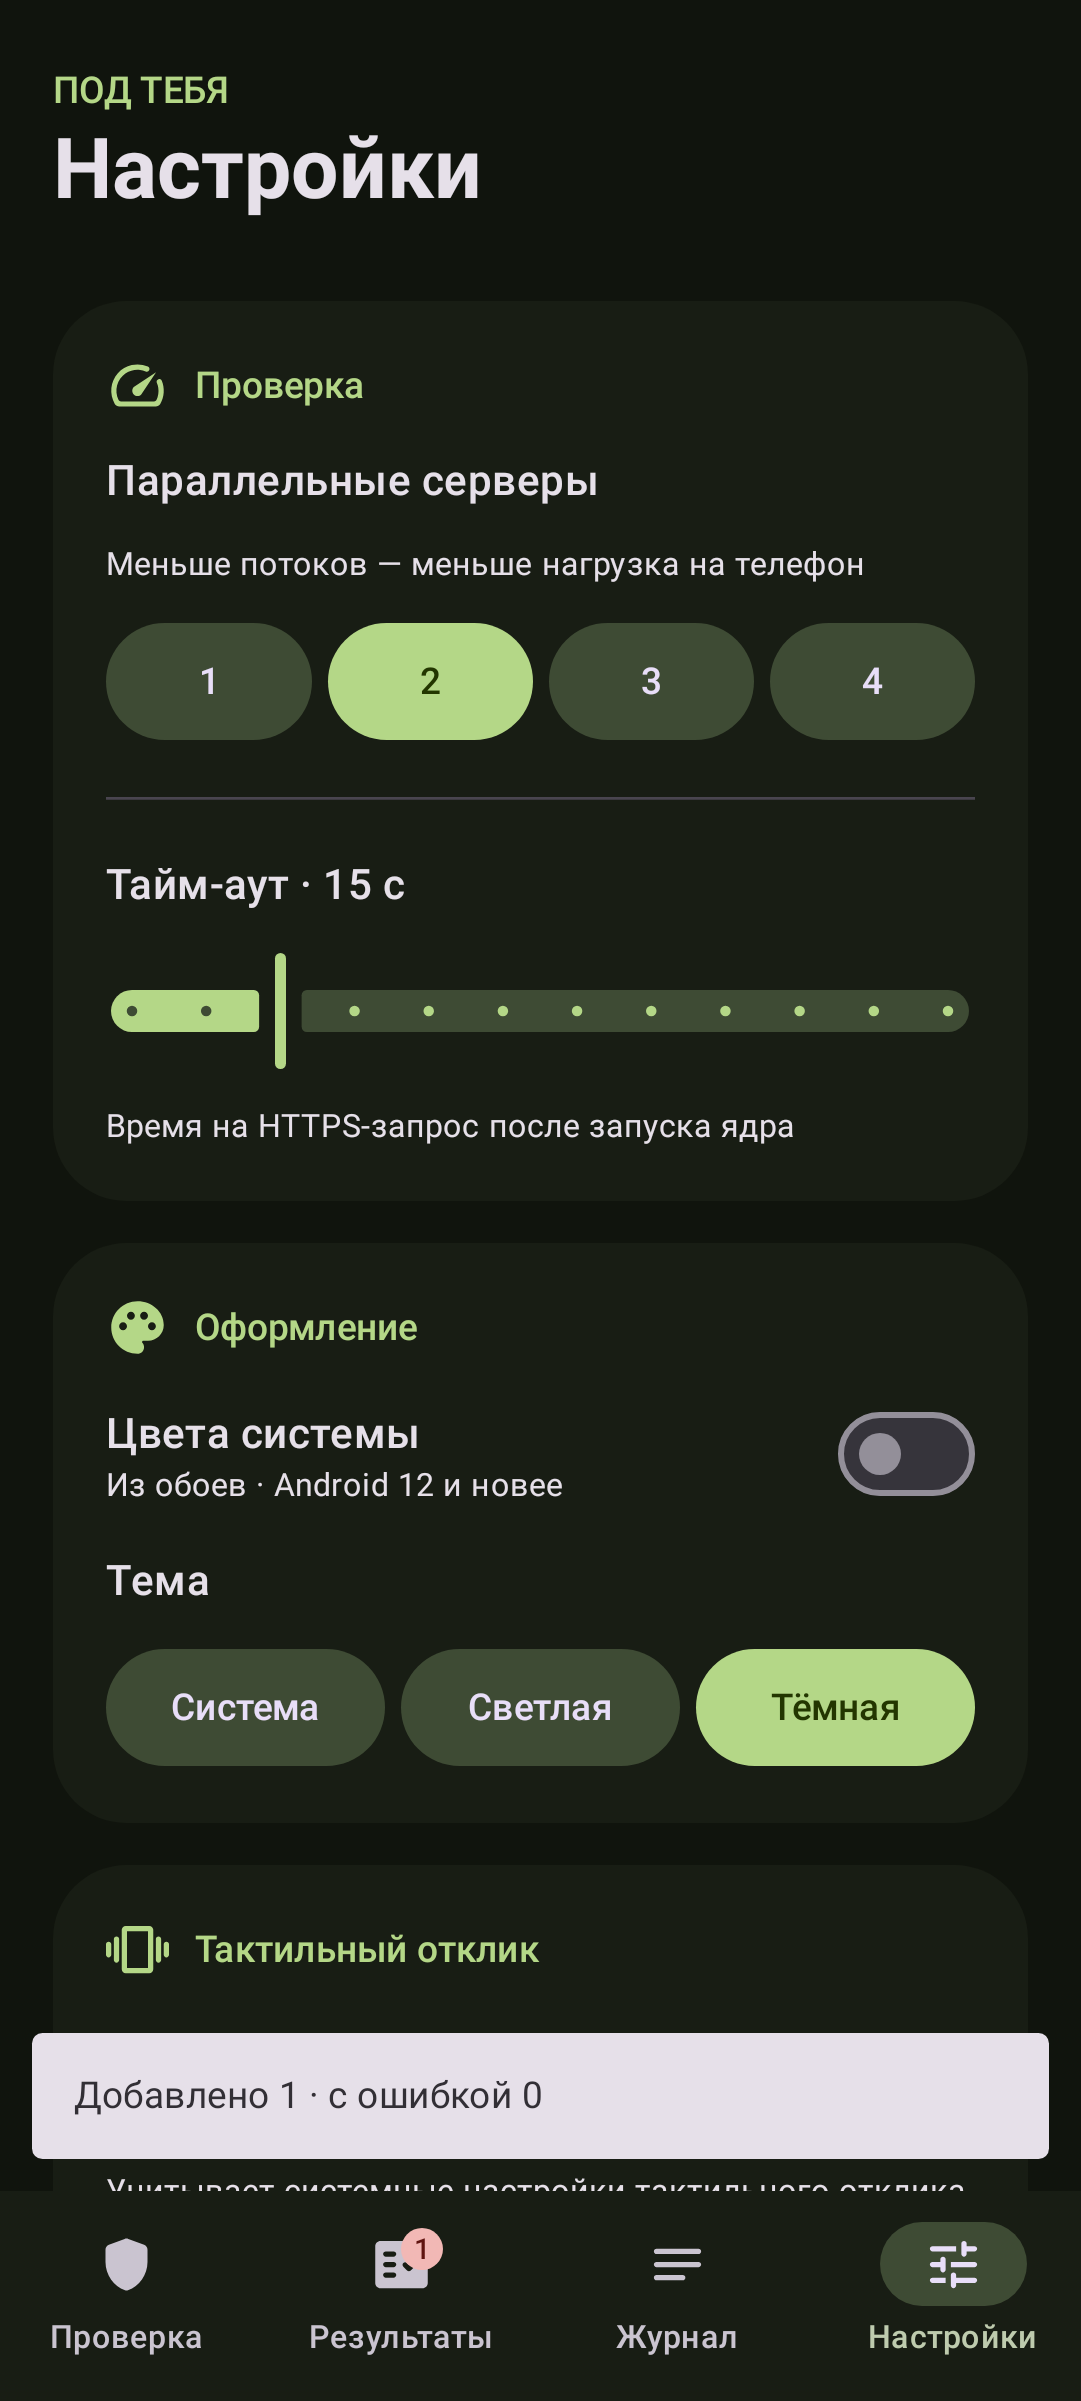
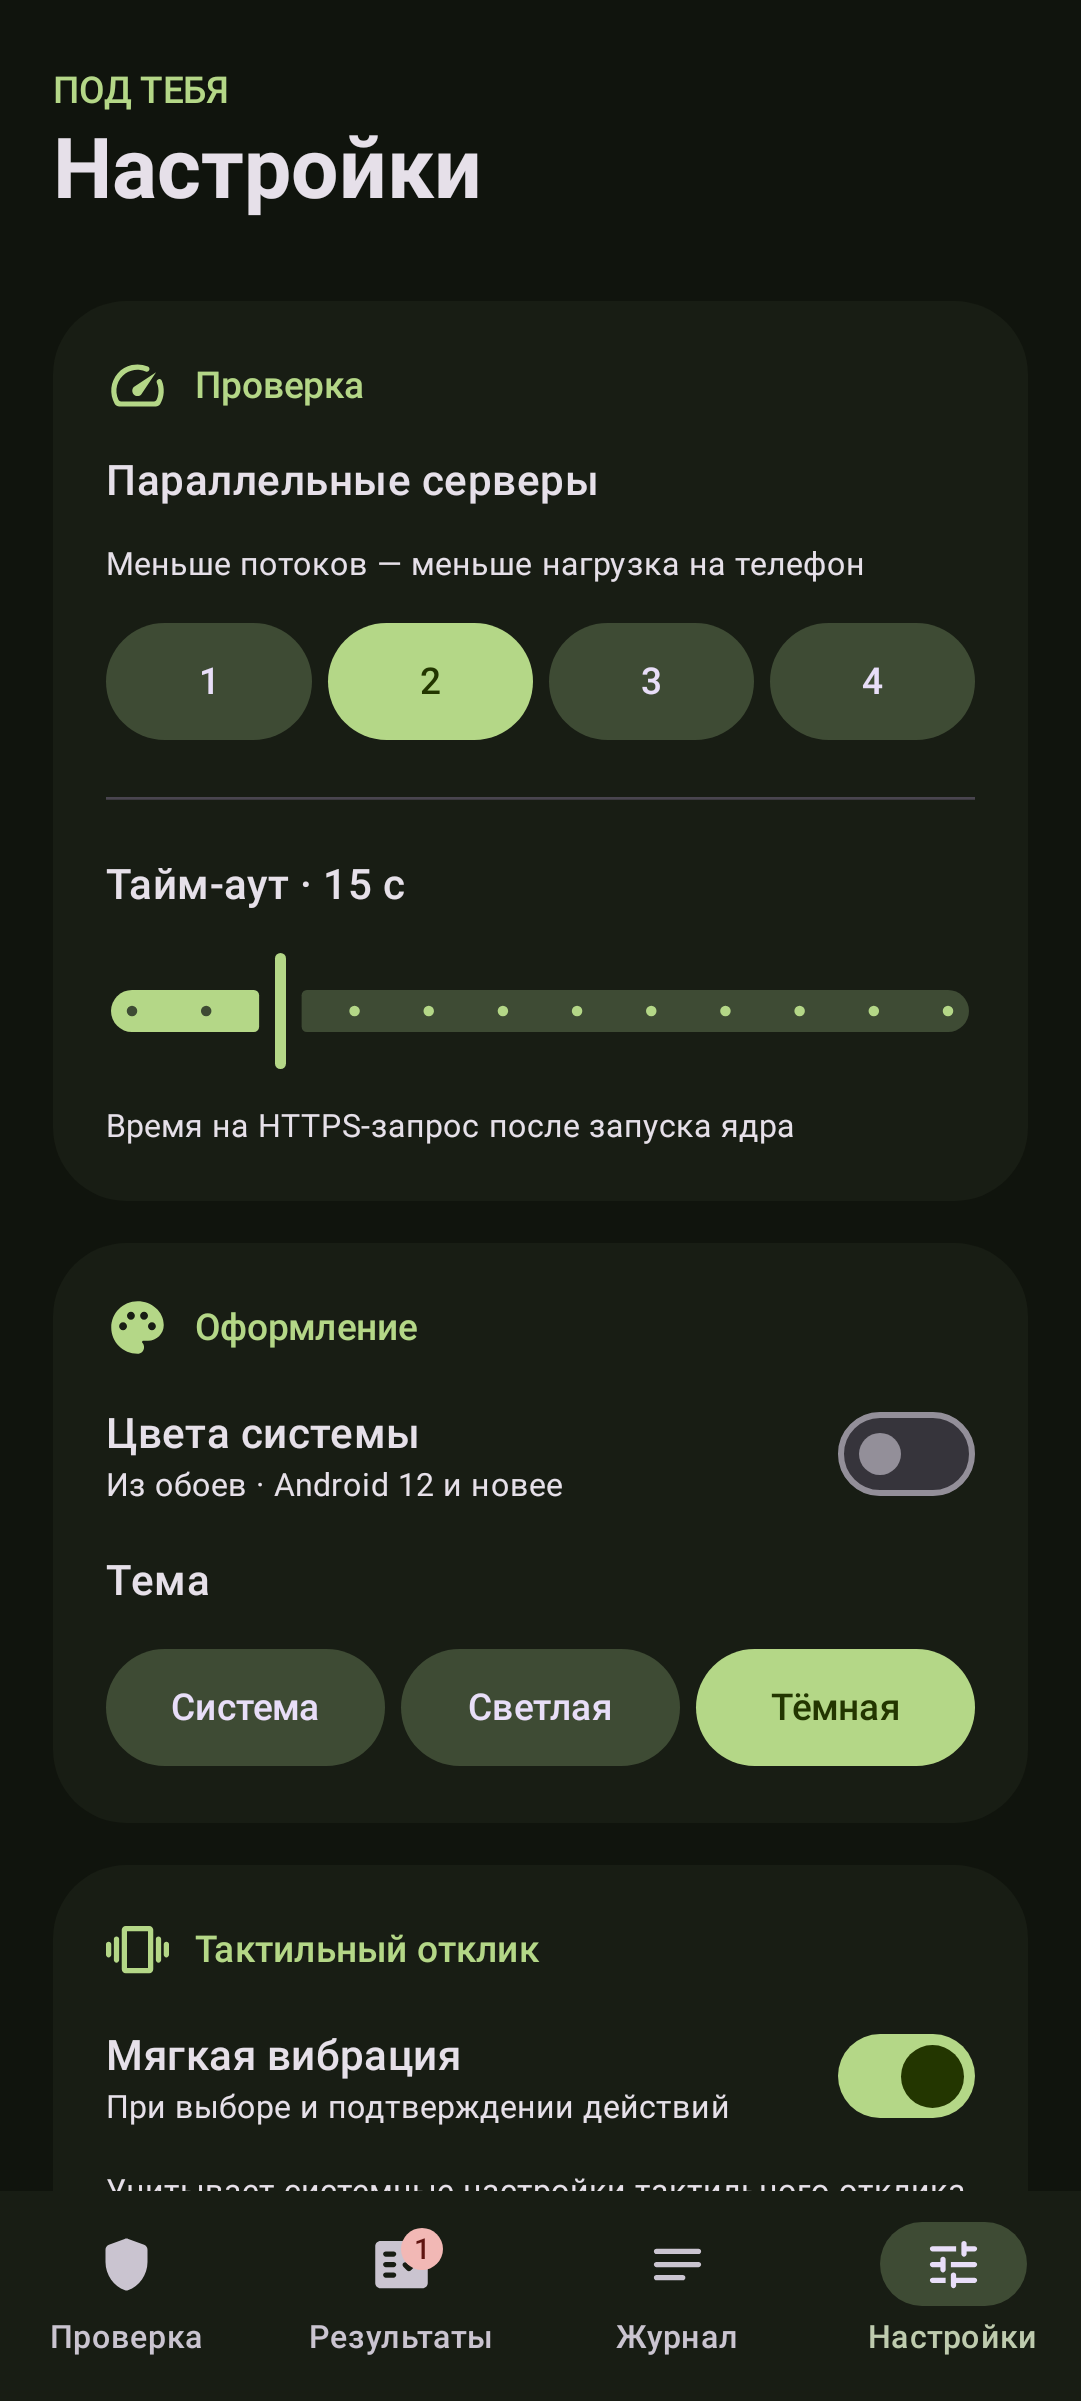
Show Android and Windows screenshots alongside iOS in the project README

Changed region(s): [[0.0305, 0.8434, 0.9769, 0.9059]]

diff --git a/app/src/test/java/ru/vpngemini/android/ScreenTest.kt b/app/src/test/java/ru/vpngemini/android/ScreenTest.kt
@@ -102,6 +102,9 @@ class ScreenTest {
         compose.onNodeWithTag("check-progress").assertRangeInfoEquals(ProgressBarRangeInfo(1f, 0f..1f))
     }
     private fun capture(name: String) {
+        // Let transient snackbars and navigation motion finish before documentation captures.
+        compose.mainClock.advanceTimeBy(6000)
+        org.robolectric.Shadows.shadowOf(android.os.Looper.getMainLooper()).idleFor(6, java.util.concurrent.TimeUnit.SECONDS)
         compose.waitForIdle()
         val directory = File("build/screenshots").apply { mkdirs() }
         compose.runOnIdle {

diff --git a/README.md b/README.md
@@ -85,8 +85,28 @@ AndroidX, Kotlin и OkHttp — Apache-2.0.
 
 Независимый проект, не связанный с Google. Gemini — продукт Google.
 
-## Интерфейс на iOS 18.5
+## Скриншоты
 
-Реальные скриншоты симулятора:
+### Android · Material 3 Expressive
 
-<p><img src="ios/preview/ios18/01-check.png" width="240" alt="Главный экран, iOS 18.5"><img src="ios/preview/ios18/05-dark-check.png" width="240" alt="Тёмная тема, iOS 18.5"><img src="ios/preview/ios18/03-settings.png" width="240" alt="Настройки, iOS 18.5"></p>
+<p>
+  <img src="preview/home-light.png" width="240" alt="Android: главный экран">
+  <img src="preview/results.png" width="240" alt="Android: список конфигураций">
+  <img src="preview/settings-dark.png" width="240" alt="Android: настройки в тёмной теме">
+</p>
+
+### iPhone · iOS 18.5
+
+<p>
+  <img src="ios/preview/ios18/01-check.png" width="240" alt="iOS 18.5: главный экран">
+  <img src="ios/preview/ios18/05-dark-check.png" width="240" alt="iOS 18.5: тёмная тема">
+  <img src="ios/preview/ios18/03-settings.png" width="240" alt="iOS 18.5: настройки">
+</p>
+
+### Windows · Fluent Design
+
+<p><img src="windows/preview/main-light.png" width="900" alt="Windows: светлая тема"></p>
+<p><img src="windows/preview/main-dark.png" width="900" alt="Windows: тёмная тема"></p>
+
+Это снимки интерфейса из проверок Compose/Qt и симулятора iOS.
+Серверы и результаты на демонстрационных экранах — тестовые данные.
